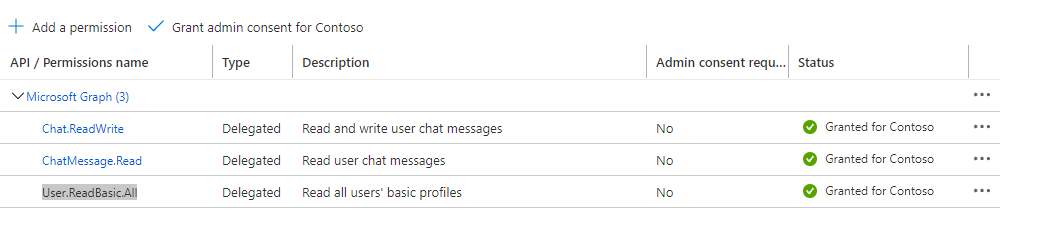
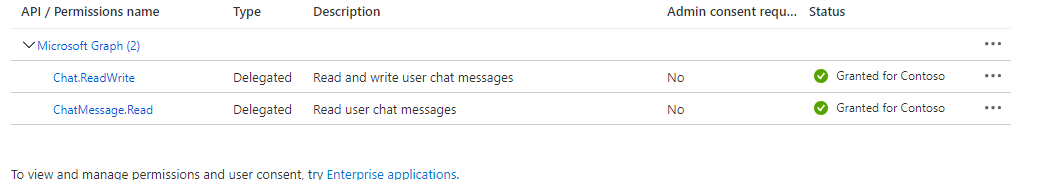
resolving PR comments

diff --git a/samples/bot-groupchat-messages-withRSC/csharp/FetchGroupChatMessagesWithRSC/Bots/ActivityBot.cs b/samples/bot-groupchat-messages-withRSC/csharp/FetchGroupChatMessagesWithRSC/Bots/ActivityBot.cs
@@ -1,7 +1,6 @@
 // Copyright (c) Microsoft Corporation. All rights reserved.
 // Licensed under the MIT License.
 
-using FetchGroupChatMessagesWithRSC.helper;
 using Microsoft.AspNetCore.Hosting;
 using Microsoft.Bot.Builder;
 using Microsoft.Bot.Builder.Dialogs;
@@ -23,7 +22,6 @@ namespace FetchGroupChatMessagesWithRSC.Bots
     public class ActivityBot<T> : TeamsActivityHandler where T : Dialog
     {
         public readonly IConfiguration _configuration;
-        private readonly GetChatHelper _helper = new();
         private readonly IWebHostEnvironment _env;
         private readonly IHttpClientFactory _clientFactory;
         protected readonly BotState ConversationState;
@@ -38,6 +36,12 @@ namespace FetchGroupChatMessagesWithRSC.Bots
             Dialog = dialog;
         }
 
+        /// <summary>
+        /// Handle request from bot.
+        /// </summary>
+        /// <param name = "turnContext" > The turn context.</param>
+        /// <param name="cancellationToken">The cancellation token.</param>
+        /// <returns>A task that represents the work queued to execute.</returns>
         public override async Task OnTurnAsync(ITurnContext turnContext, CancellationToken cancellationToken = default(CancellationToken))
         {
             await base.OnTurnAsync(turnContext, cancellationToken);
@@ -59,8 +63,9 @@ namespace FetchGroupChatMessagesWithRSC.Bots
         protected override async Task OnMessageActivityAsync(ITurnContext<IMessageActivity> turnContext, CancellationToken cancellationToken)
         {
             var activity = this.StripAtMentionText((Activity)turnContext.Activity);
-            var userCommand = activity.Text;
-            if (userCommand == "getchat")
+            var userCommand = activity.Text.ToLower().Trim();
+
+            if (userCommand == "getchat" || userCommand == "logout")
             {
                 // Run the Dialog with the new message Activity.
                 await Dialog.RunAsync(turnContext, ConversationState.CreateProperty<DialogState>(nameof(DialogState)), cancellationToken);
@@ -69,9 +74,17 @@ namespace FetchGroupChatMessagesWithRSC.Bots
             {
                 await turnContext.SendActivityAsync(MessageFactory.Text("type getchat to get archieved messages"));                   
             }
+
             return;
         }
 
+        /// <summary>
+        /// Invoked when a file consent card activity is received.
+        /// </summary>
+        /// <param name="turnContext">Context object containing information cached for a single turn of conversation with a user.</param>
+        /// <param name="fileConsentCardResponse">The response representing the value of the invoke activity sent when the user acts on a file consent card.</param>
+        /// <param name="cancellationToken">A cancellation token that can be used by other objects or threads to receive notice of cancellation.</param>
+        /// <returns>A task that represents the work queued to execute.</returns>
         protected override async Task OnTeamsFileConsentAcceptAsync(ITurnContext<IInvokeActivity> turnContext, FileConsentCardResponse fileConsentCardResponse, CancellationToken cancellationToken)
         {
             try
@@ -98,6 +111,13 @@ namespace FetchGroupChatMessagesWithRSC.Bots
             }
         }
 
+        /// <summary>
+        /// Invoked when a file consent card is declined by the user.
+        /// </summary>
+        /// <param name="turnContext">Context object containing information cached for a single turn of conversation with a user.</param>
+        /// <param name="fileConsentCardResponse">The response representing the value of the invoke activity sent when the user declines a file consent card.</param>
+        /// <param name="cancellationToken">A cancellation token that can be used by other objects or threads to receive notice of cancellation.</param>
+        /// <returns>A task that represents the work queued to execute.</returns>
         protected override async Task OnTeamsFileConsentDeclineAsync(ITurnContext<IInvokeActivity> turnContext, FileConsentCardResponse fileConsentCardResponse, CancellationToken cancellationToken)
         {
             JToken context = JObject.FromObject(fileConsentCardResponse.Context);
@@ -107,6 +127,13 @@ namespace FetchGroupChatMessagesWithRSC.Bots
             await turnContext.SendActivityAsync(reply, cancellationToken);
         }
 
+        /// <summary>
+        /// Handle file upload.
+        /// </summary>
+        /// <param name="turnContext">Context object containing information cached for a single turn of conversation with a user.</param>
+        /// <param name="fileConsentCardResponse">The response representing the value of the invoke activity sent when the user accept a file consent card.</param>
+        /// <param name="cancellationToken">A cancellation token that can be used by other objects or threads to receive notice of cancellation.</param>
+        /// <returns>A task that represents the work queued to execute.</returns>
         private async Task FileUploadCompletedAsync(ITurnContext turnContext, FileConsentCardResponse fileConsentCardResponse, CancellationToken cancellationToken)
         {
             var downloadCard = new FileInfoCard
@@ -130,6 +157,13 @@ namespace FetchGroupChatMessagesWithRSC.Bots
             await turnContext.SendActivityAsync(reply, cancellationToken);
         }
 
+        /// <summary>
+        /// Handle file upload failure.
+        /// </summary>
+        /// <param name="turnContext">Context object containing information cached for a single turn of conversation with a user.</param>
+        /// <param name="error"> Error while uploading the file.</param>
+        /// <param name="cancellationToken">A cancellation token that can be used by other objects or threads to receive notice of cancellation.</param>
+        /// <returns>A task that represents the work queued to execute.</returns>
         private async Task FileUploadFailedAsync(ITurnContext turnContext, string error, CancellationToken cancellationToken)
         {
             var reply = MessageFactory.Text($"<b>File upload failed.</b> Error: <pre>{error}</pre>");
@@ -137,6 +171,7 @@ namespace FetchGroupChatMessagesWithRSC.Bots
             await turnContext.SendActivityAsync(reply, cancellationToken);
         }
 
+        // Remove mention text from the activity. 
         private Activity StripAtMentionText(Activity activity)
         {
             if (activity == null)

diff --git a/samples/bot-groupchat-messages-withRSC/csharp/FetchGroupChatMessagesWithRSC/Bots/AuthBot.cs b/samples/bot-groupchat-messages-withRSC/csharp/FetchGroupChatMessagesWithRSC/Bots/AuthBot.cs
@@ -20,6 +20,14 @@ namespace FetchGroupChatMessagesWithRSC.Bots
         {
         }
 
+        /// <summary>
+        /// Invoked when bot (like a user) are added to the conversation.
+        /// </summary>
+        /// <param name="membersAdded">A list of all the members added to the conversation.</param>
+        /// <param name="turnContext">Context object containing information cached for a single turn of conversation with a user.</param>
+        /// <param name="cancellationToken">A cancellation token that can be used by other objects or threads to receive notice of cancellation.</param>
+        /// <returns>A task that represents the work queued to execute.</returns>
+        /// <remarks>
         protected override async Task OnMembersAddedAsync(IList<ChannelAccount> membersAdded, ITurnContext<IConversationUpdateActivity> turnContext, CancellationToken cancellationToken)
         {
             foreach (var member in turnContext.Activity.MembersAdded)
@@ -31,12 +39,26 @@ namespace FetchGroupChatMessagesWithRSC.Bots
             }
         }
 
+        /// <summary>
+        /// Invoked when a tokens/response event is received.
+        /// </summary>
+        /// <param name="turnContext">Context object containing information cached for a single turn of conversation with a user.</param>
+        /// <param name="cancellationToken">A cancellation token that can be used by other objects or threads to receive notice of cancellation.</param>
+        /// <returns>A task that represents the work queued to execute.</returns>
+        /// <remarks>
         protected override async Task OnTokenResponseEventAsync(ITurnContext<IEventActivity> turnContext, CancellationToken cancellationToken)
         {
             // Run the Dialog with the new Token Response Event Activity.
             await Dialog.RunAsync(turnContext, ConversationState.CreateProperty<DialogState>(nameof(DialogState)), cancellationToken);
         }
 
+        /// <summary>
+        /// Invoked when a signIn verify state activity is received from the connector.
+        /// </summary>
+        /// <param name="turnContext">Context object containing information cached for a single turn of conversation with a user.</param>
+        /// <param name="cancellationToken">A cancellation token that can be used by other objects or threads to receive notice of cancellation.</param>
+        /// <returns>A task that represents the work queued to execute.</returns>
+        /// <remarks>
         protected override async Task OnTeamsSigninVerifyStateAsync(ITurnContext<IInvokeActivity> turnContext, CancellationToken cancellationToken)
         {
             // Run the Dialog with the new Teams Signin Verify State  Activity.

diff --git a/samples/bot-groupchat-messages-withRSC/csharp/FetchGroupChatMessagesWithRSC/helper/GetChatHelper.cs b/samples/bot-groupchat-messages-withRSC/csharp/FetchGroupChatMessagesWithRSC/helper/GetChatHelper.cs
@@ -12,6 +12,7 @@ namespace FetchGroupChatMessagesWithRSC.helper
 {
     public class GetChatHelper
     {
+        // Get groupchat message
         public static async Task<IChatMessagesCollectionPage> GetGroupChatMessage(ITurnContext turnContext, TokenResponse tokenResponse, string Chatid)
         {
             if (turnContext == null)
@@ -36,8 +37,10 @@ namespace FetchGroupChatMessagesWithRSC.helper
             }
         }
 
+        // Send archive messages file to user.
         public static async Task SendGroupChatMessage(ITurnContext turnContext, long fileSize,string microsoftAppId, string microsoftAppPassword,  CancellationToken cancellationToken)
         {
+
             if (turnContext == null)
             {
                 throw new ArgumentNullException(nameof(turnContext));
@@ -91,6 +94,7 @@ namespace FetchGroupChatMessagesWithRSC.helper
             }
         }
 
+        // Send consent card to user.
         private static Activity SendFileCardAsync(ITurnContext turnContext, string filename, long filesize)
         {
             var consentContext = new Dictionary<string, string>

diff --git a/samples/bot-groupchat-messages-withRSC/csharp/FetchGroupChatMessagesWithRSC/SimpleGraphClient.cs b/samples/bot-groupchat-messages-withRSC/csharp/FetchGroupChatMessagesWithRSC/SimpleGraphClient.cs
@@ -24,7 +24,7 @@ namespace FetchGroupChatMessagesWithRSC
             _token = token;
         }
 
-        //Fetching chat messages 
+        // Fetching chat messages 
         public async Task<IChatMessagesCollectionPage> GetGroupChatMessages(string Chatid)
         {
             var graphClient = GetAuthenticatedClient();

diff --git a/samples/bot-groupchat-messages-withRSC/csharp/FetchGroupChatMessagesWithRSC/Dialogs/MainDialog.cs b/samples/bot-groupchat-messages-withRSC/csharp/FetchGroupChatMessagesWithRSC/Dialogs/MainDialog.cs
@@ -27,6 +27,7 @@ namespace FetchGroupChatMessagesWithRSC.Dialogs
             _logger = logger;
             _env = env;
             _configuration = configuration;
+
             AddDialog(new OAuthPrompt(
                 nameof(OAuthPrompt),
                 new OAuthPromptSettings

diff --git a/samples/bot-groupchat-messages-withRSC/csharp/README.md b/samples/bot-groupchat-messages-withRSC/csharp/README.md
@@ -1,13 +1,14 @@
-Using this C# sample, a bot can receive all channel messages with RSC without @mention.
-For reference please check [Receive Channel messages with RSC](https://docs.microsoft.com/en-us/microsoftteams/platform/bots/how-to/conversations/channel-messages-with-rsc)
+Using this C# sample, a bot can archive chat messages of groupchat and send it to user.
 
 This feature shown in this sample is currently available in Public Developer Preview only.
 
 ## Key features
 
-- Showing messages based on option selected
+- Sending archive chat messages text file of a groupchat to user
 
-![Channel messages](ReceiveMessagesWithRSC/Images/botWithRSCFlow.png)
+![Bot command](FetchGroupChatMessagesWithRSC/Images/botCommandToGetChatMessages.png)
+
+![Bot reply](FetchGroupChatMessagesWithRSC/Images/replyFromBot.png)
 
 ## Prerequisites
 
@@ -28,36 +29,32 @@ This feature shown in this sample is currently available in Public Developer Pre
 ```
 
 2. Create a Bot Registration
-   In Azure portal, create a [Bot Framework registration resource](https://docs.microsoft.com/en-us/azure/bot-service/bot-builder-authentication?view=azure-bot-service-4.0&tabs=csharp%2Caadv2#create-the-resource).
+   In Azure portal, create a [Bot Framework registration resource](https://docs.microsoft.com/en-us/azure/bot-service/bot-builder-authentication?view=azure-bot-service-4.0&tabs=csharp%2Caadv2).
 
-3. Modify the `manifest.json` in the `/AppManifest` folder and replace the `{{BOT-ID}}` with the id from step 2.
+3. Modify the `manifest.json` in the `/AppManifest` folder and replace the `<<YOUR-MICROSOFT-APP-ID>>` with the id from step 2.
 
-4. Zip the contents of `AppManifest` folder into a `manifest.zip`, and use the `manifest.zip` to deploy in app store or add to Teams as in step 7.
+4. Zip the contents of `AppManifest` folder into a `manifest.zip`, and use the `manifest.zip` to deploy in app store or add to Teams as in step 6.
 
-5. Modify the `/appsettings.json` and fill in the `{{ Bot Id }}`,`{{ Bot Password }}` with the id from step 2.
+5. Modify the `/appsettings.json` and fill in the `{{ Bot Id }}`,`{{ Bot Password }}` and `{{ Connection Name }}` with the id from step 2.
 
-- __*This step is specific to Teams.*__
-    - **Edit** the `manifest.json` contained in the  `AppManifest` folder to replace your Microsoft App Id (that was created when you registered your bot earlier) *everywhere* you see the place holder string `<<YOUR-MICROSOFT-APP-ID>>` (depending on the scenario the Microsoft App Id may occur multiple times in the `manifest.json`) also update the `<<DOMAIN-NAME>>` with the ngrok URL`
-    
-    - **Zip** up the contents of the `appPackage` folder to create a `manifest.zip`
-    - **Sideload** in a team to test
-         - Select or create a team
-         - Select the ellipses **...** from the left pane. The drop-down menu appears.
-         - Select **Manage Team**, then select **Apps** 
-         - Then select **Upload a custom app** from the lower right corner.
-         - Then select the `manifest.zip` file from `appPackage`, and then select **Add** to add the bot to your selected team.
+6. Add this permission to app registration
 
-![App Installation](ReceiveMessagesWithRSC/Images/installApp.png)
+![Permissions](FetchGroupChatMessagesWithRSC/Images/permissions.png)
+7. Upload the manifest.zip to Teams (in the Apps view click "Upload a custom app")
+   - Go to Microsoft Teams. From the lower left corner, select Apps
+   - From the lower left corner, choose Upload a custom App
+   - Go to your project directory, the ./appPackage folder, select the zip folder, and choose Open.
+   - Select Add in the pop-up dialog box. Your tab is uploaded to Teams
 
-![Permissions](ReceiveMessagesWithRSC/Images/permissions1.png)
-    
+
+
 ## To try this sample
 
-- In a terminal, navigate to `ReceiveMessagesWithRSC`
+- In a terminal, navigate to `FetchGroupChatMessagesWithRSC`
 
     ```bash
     # change into project folder
-    cd # ReceiveMessagesWithRSC
+    cd # FetchGroupChatMessagesWithRSC
     ```
 
 - Run the bot from a terminal or from Visual Studio, choose option A or B.
@@ -73,29 +70,17 @@ This feature shown in this sample is currently available in Public Developer Pre
 
   - Launch Visual Studio
   - File -> Open -> Project/Solution
-  - Navigate to `ReceiveMessagesWithRSC` folder
-  - Select `ReceiveMessagesWithRSC.csproj` file
+  - Navigate to `samples/bot-groupchat-messages-withRSC/csharp` folder
+  - Select `FetchGroupChatMessagesWithRSC.csproj` file
   - Press `F5` to run the project
 
-## Interacting with the bot in Teams
+## Interacting with the bot in GroupChat
 
-Select a channel and enter a message in the channel for your bot.
+Select a groupchat and add the bot to chat.
 
-The bot receives the message without being @mentioned.
+Send `getchat` message to the bot, you will recieve a consent card by the bot in your personal scope.
+
 
 ## Deploy the bot to Azure
 
 To learn more about deploying a bot to Azure, see [Deploy your bot to Azure](https://aka.ms/azuredeployment) for a complete list of deployment instructions.
-
-## Further reading
-
-- [Bot Framework Documentation](https://docs.botframework.com)
-- [Bot Basics](https://docs.microsoft.com/azure/bot-service/bot-builder-basics?view=azure-bot-service-4.0)
-- [Activity processing](https://docs.microsoft.com/en-us/azure/bot-service/bot-builder-concept-activity-processing?view=azure-bot-service-4.0)
-- [Azure Bot Service Introduction](https://docs.microsoft.com/azure/bot-service/bot-service-overview-introduction?view=azure-bot-service-4.0)
-- [Azure Bot Service Documentation](https://docs.microsoft.com/azure/bot-service/?view=azure-bot-service-4.0)
-- [.NET Core CLI tools](https://docs.microsoft.com/en-us/dotnet/core/tools/?tabs=netcore2x)
-- [Azure CLI](https://docs.microsoft.com/cli/azure/?view=azure-cli-latest)
-- [Azure Portal](https://portal.azure.com)
-- [Language Understanding using LUIS](https://docs.microsoft.com/en-us/azure/cognitive-services/luis/)
-- [Channels and Bot Connector Service](https://docs.microsoft.com/en-us/azure/bot-service/bot-concepts?view=azure-bot-service-4.0)

diff --git a/README.md b/README.md
@@ -64,7 +64,7 @@ Here are all the samples which are deployed on Microsoft Azure and you can try i
 |9| Universal bots  | Teams catering bot demonstrating how to use Universal bots in Teams | [View](samples/bot-teams-catering/csharp) |  | |
 |10| Sequential workflow adaptive cards | Demonstrating on how to implement sequential flow, user specific view and upto date adaptive cards in bot. | [View][sequential#workflow#csharp] | [View][sequential#workflow#js]
 |11| Channel messages with RSC permissions | Demonstrating on how a bot can receive all channel messages with RSC without @mention. | [View][messageswithrsc#csharp] |[View][messageswithrsc#js]
-|11| Archive groupchat message with RSC permissions | Demonstrating on how a bot can archive groupchat messages with RSC and send it to user. | [View][groupchatmessageswithrsc#csharp] |
+|12| Archive groupchat message with RSC permissions | Demonstrating on how a bot can archive groupchat messages with RSC and send it to user. | [View][groupchatmessageswithrsc#csharp] |
 
 #### Additional samples
 
